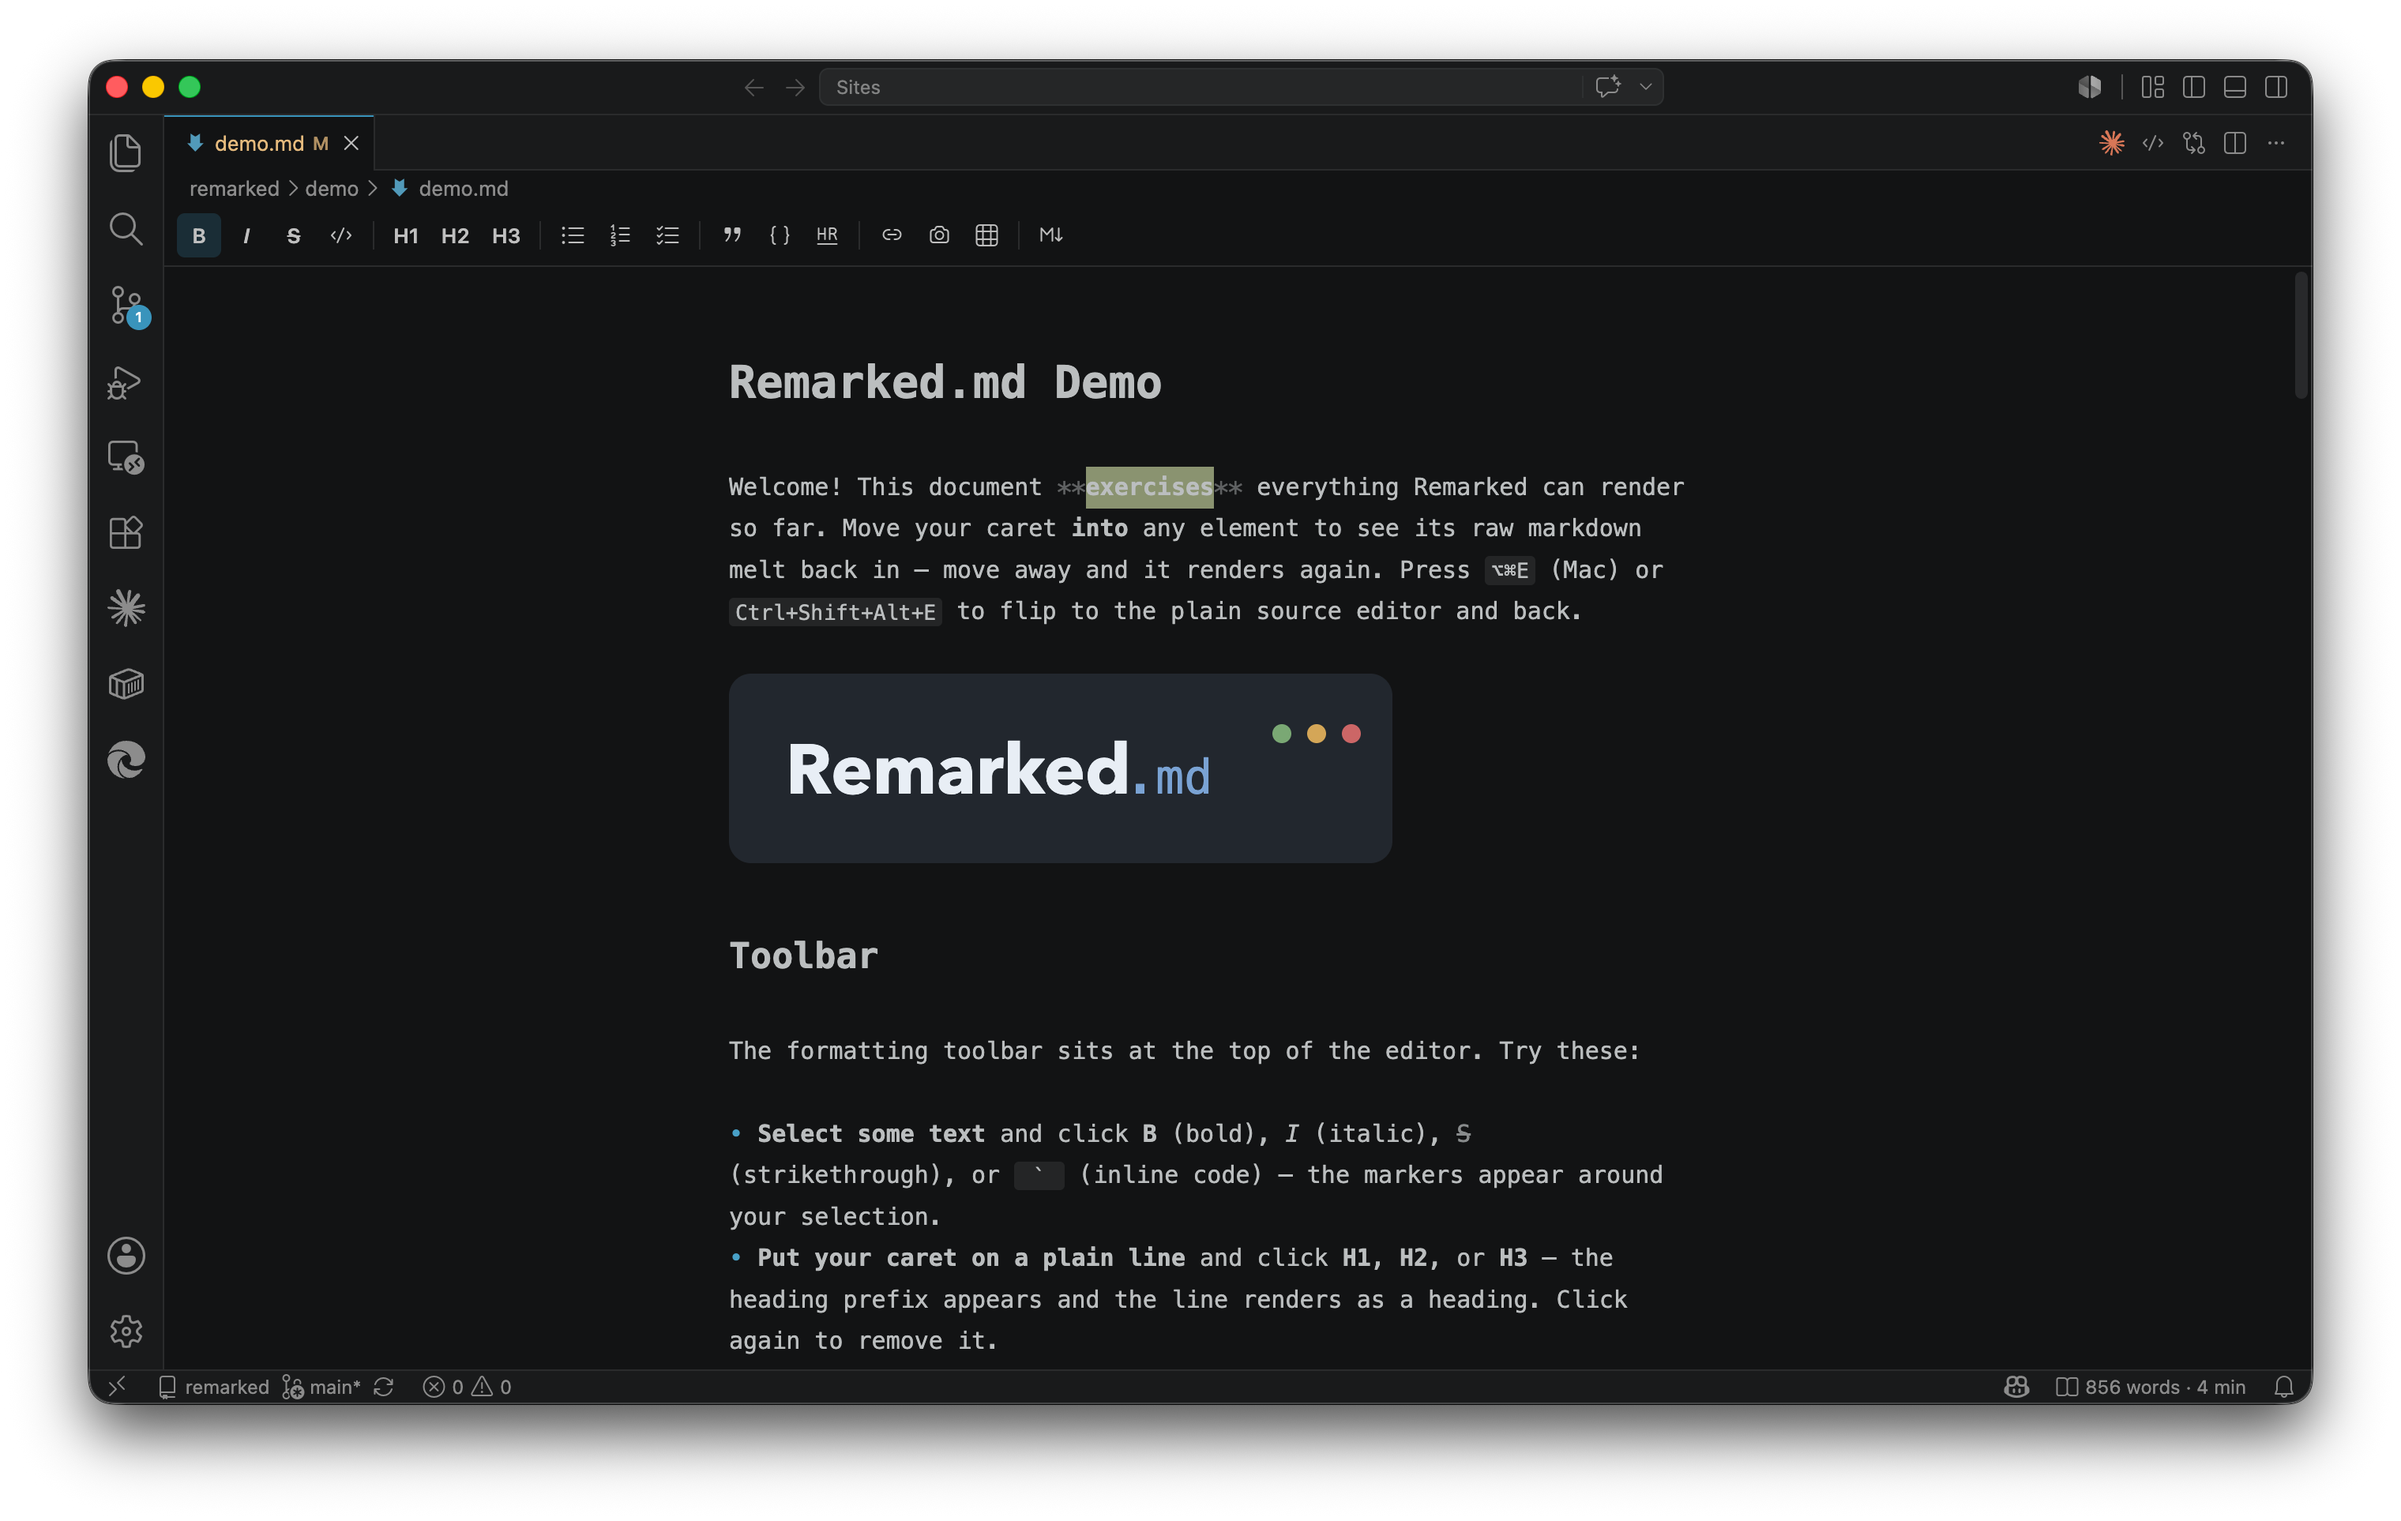
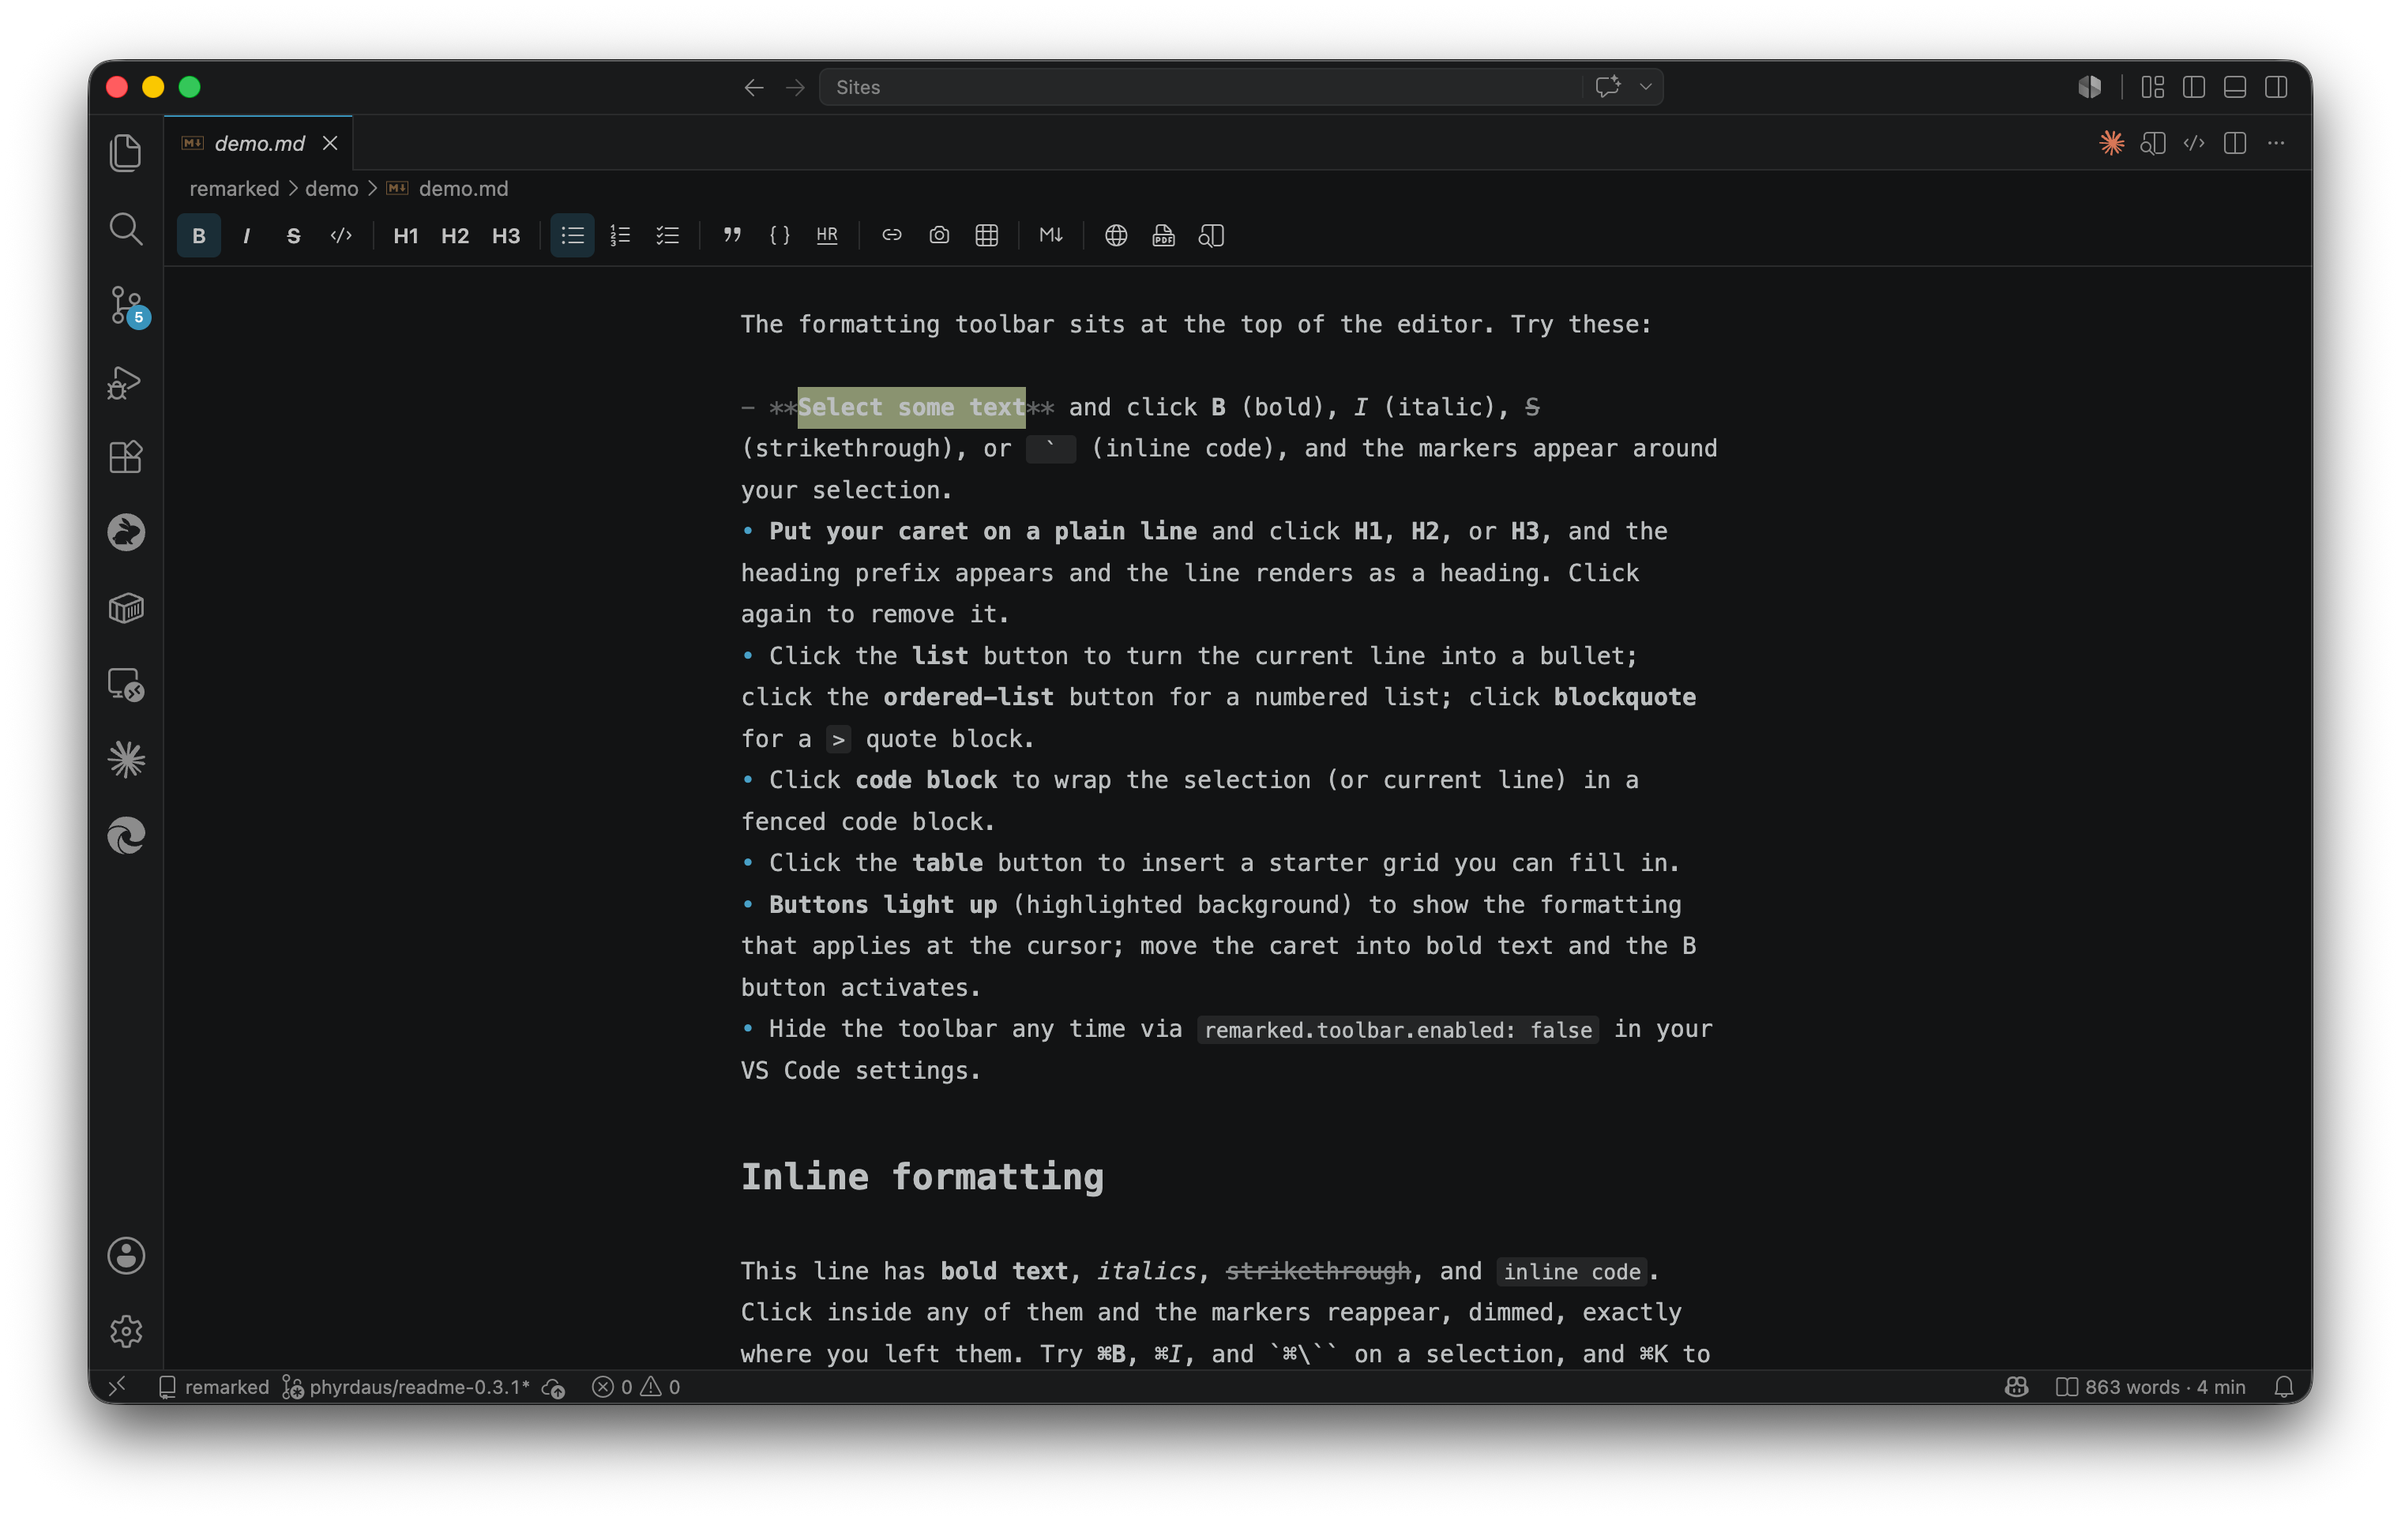
docs: refresh README + screenshots for 0.3.x features; release 0.3.1
Document the Preview to the Side panel and rich-text find/replace (0.3.0), note
the export/preview toolbar buttons, add a Preview screenshot, and re-capture the
toolbar-bearing shots (01–04) for the current toolbar. Bump to 0.3.1 so the
refreshed README + the FIR-85 fix reach the Marketplace.

diff --git a/images/SHOTS.md b/images/SHOTS.md
@@ -12,6 +12,13 @@ them, so they render as soon as the files exist.
 > top). Install/update first: search "Remarked.md" in the Extensions panel →
 > Update, or `code --install-extension phyr.remarked`.
 
+> **v0.3.0 update:** the toolbar gained **Export to HTML**, **Export to PDF**,
+> and **Open Preview to the Side** buttons at the far right. The toolbar is the
+> fixed bar at the top of the editor, so it appears in **all four** shots — so
+> re-capture **every** screenshot (**01–04**) with **v0.3.0+** installed so the
+> current toolbar shows consistently. New shot **05** is required for the
+> README's Preview section; **06** (find/replace) is optional.
+
 Tips for clean shots:
 - Use a comfortable window width (~900-1100px of editor) so text isn't cramped.
 - A dark VS Code theme matches the screenshots' framing, but either is fine;
@@ -27,6 +34,8 @@ Tips for clean shots:
 | `images/02-table-editing.png` | A **GFM table** from `demo.md` being edited in place, ideally with a cell focused and the hover toolbar (add row/column, alignment) visible. |
 | `images/03-math-mermaid.png` | A view showing **KaTeX math** and a **Mermaid diagram** rendered inline (the demo has both; scroll to a spot where you can frame them together, or crop one if needed). |
 | `images/04-toolbar-active.png` | A close-up of the **full toolbar with one or more buttons lit** (active-state); e.g. put the caret inside bold text and inside a heading so Bold / H-level buttons highlight. Make sure the **View Source** button (far right) is in frame. |
+| `images/05-preview-panel.png` | **Required for v0.3.1.** The editor (left) beside the **Preview to the Side** panel (right) rendering the same `demo.md`. Click *Open Preview to the Side* (toolbar or command), then put the caret partway down the doc so the preview is scrolled to the matching content (shows caret-follow sync). Frame both panes. |
+| `images/06-find-replace.png` (optional) | The **find/replace panel** open over the editor (`⌘F` — the panel already shows the Replace row), with a term entered so matches highlight. Only add if you also add a matching image to the README. |
 
 Optional extras you could add later (and reference in the README): image
 paste/drag-drop, the source toggle (`⌥⌘E`), or an HTML/PDF export result.

diff --git a/README.md b/README.md
@@ -15,10 +15,18 @@ edit it.
   never whole-paragraph flips.
 - **Instant source toggle.** `⌥⌘E` (mac) / `Ctrl+Shift+Alt+E` reopens the
   same buffer in the plain text editor and back.
+- **Preview to the Side.** Open a live, read-only rendered preview beside the
+  editor (toolbar button or the *Open Preview to the Side* command) that follows
+  your caret as you move and type. Because it's rendered, selecting and copying
+  from it yields clean formatted rich text.
+- **Find & replace** in the rich-text view: `⌘F` / `Ctrl+F` opens a search
+  panel with match navigation (`⌘G` / `Ctrl+G` for next) and an inline replace
+  row (Replace / Replace all).
 - **Formatting toolbar** at the top of the editor with bold, italic,
   strikethrough, inline code, headings (H1-H3), lists, blockquote, code block,
-  horizontal rule, link, image, and table actions. Buttons reflect the
-  formatting at the cursor. Hide it with `remarked.toolbar.enabled: false`.
+  horizontal rule, link, image, and table actions, plus buttons to export
+  (HTML/PDF) and open the preview. Buttons reflect the formatting at the cursor.
+  Hide it with `remarked.toolbar.enabled: false`.
 - **GFM tables** you edit like a spreadsheet: click a cell and type, Tab/Enter
   to move, hover toolbar for rows, columns and alignment, `⌘/` to edit raw
   pipes.
@@ -49,6 +57,10 @@ edit it.
 ![The toolbar reflecting the formatting at the cursor](images/04-toolbar-active.png)
 
 *Toolbar buttons light up to show the formatting at your caret.*
+
+![The editor beside a live rendered Preview panel](images/05-preview-panel.png)
+
+*Open a live Preview to the Side; it follows your caret and gives you clean rich text to copy.*
 
 ## Try it
 

diff --git a/CHANGELOG.md b/CHANGELOG.md
@@ -1,5 +1,14 @@
 # Changelog
 
+## 0.3.1 - 2026-07-02
+
+- **Fix:** the find panel's **"all"** button (select all matches) now works, and
+  multi-cursor editing (`⌘D` / Alt-click) is enabled. Multiple selections were
+  never turned on, so those actions silently did nothing.
+- **Docs:** the README now documents the **Preview to the Side** panel and the
+  rich-text **find/replace** (both shipped in 0.3.0), notes the new export and
+  preview toolbar buttons, and refreshes the screenshots for the current toolbar.
+
 ## 0.3.0 - 2026-07-02
 
 - **Preview panel.** Open a live, read-only **Preview to the Side** (toolbar
